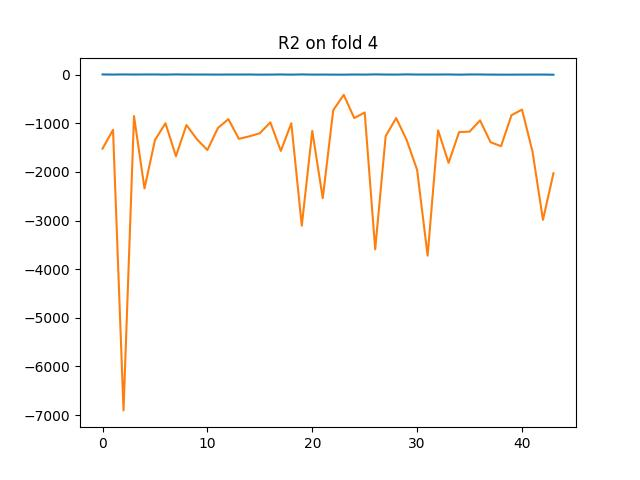
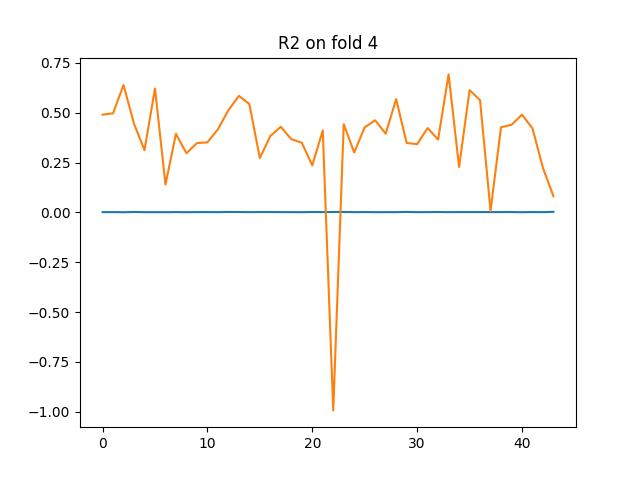
final

diff --git a/main.py b/main.py
@@ -65,12 +65,12 @@ def reset_weights(m):
     layer.reset_parameters()
 
 def train(model, dataset, lr, epochs_number: int, loss_function, optimizer, k_folds = 5, *args, **kwargs):
-    model = model.to(device)
+    # model = model.to(device)
     kfold = KFold(n_splits=k_folds, shuffle=True)
     for fold, (train_ids, test_ids) in enumerate(kfold.split(dataset)):
     
         # Print
-        print(f' >> FOLD {fold} <<')
+        print(f' >> FOLD {fold + 1} <<')
         print('--------------------------------')
         
         # Sample elements randomly from a given list of ids, no replacement.
@@ -101,8 +101,8 @@ def train(model, dataset, lr, epochs_number: int, loss_function, optimizer, k_fo
                 
                 inputs, targets = data
 
-                inputs = inputs.to(device)
-                targets = targets.to(device)
+                # inputs = inputs.to(device)
+                # targets = targets.to(device)
                 
                 optimizer.zero_grad()
                 
@@ -144,12 +144,12 @@ def train(model, dataset, lr, epochs_number: int, loss_function, optimizer, k_fo
         mse_on_fold.append(mean_squared_error(targets, outputs))
     
     plt.plot(mse_on_fold)
-    plt.title(f"MSE on fold {fold}")
-    plt.savefig(f"mse_fold_{fold}.jpg")
+    plt.title(f"MSE on fold {fold+1}")
+    plt.savefig(f"mse_fold_{fold+1}.jpg")
 
     plt.plot(r2_on_fold)
-    plt.title(f"R2 on fold {fold}")
-    plt.savefig(f"r2_fold_{fold}.jpg")
+    plt.title(f"R2 on fold {fold+1}")
+    plt.savefig(f"r2_fold_{fold+1}.jpg")
 
         
 if __name__ == "__main__":
@@ -160,14 +160,10 @@ if __name__ == "__main__":
        target_transform=v2.ToDtype(torch.float32))
 
     model_seq = [
-       nn.Linear(16, 32),
-       nn.Sigmoid(),
-       nn.Linear(32, 32),
-       nn.Sigmoid(),
-       nn.Linear(32, 16),
-       nn.Sigmoid(),
-       nn.Linear(16, 4),
-       nn.Sigmoid(),
+       nn.Linear(16, 8),
+       nn.ReLU(),
+       nn.Linear(8, 4),
+       nn.ReLU(),
        nn.Linear(4, 2)
     ]
 
@@ -178,4 +174,4 @@ if __name__ == "__main__":
     # ]
 
     network = SeqNet(model_seq)
-    train(network, train_data, 1e-4, 100, nn.CrossEntropyLoss(), None, k_folds = 5)
+    train(network, train_data, 1e-4, 500, nn.MSELoss(), None, k_folds = 5)
